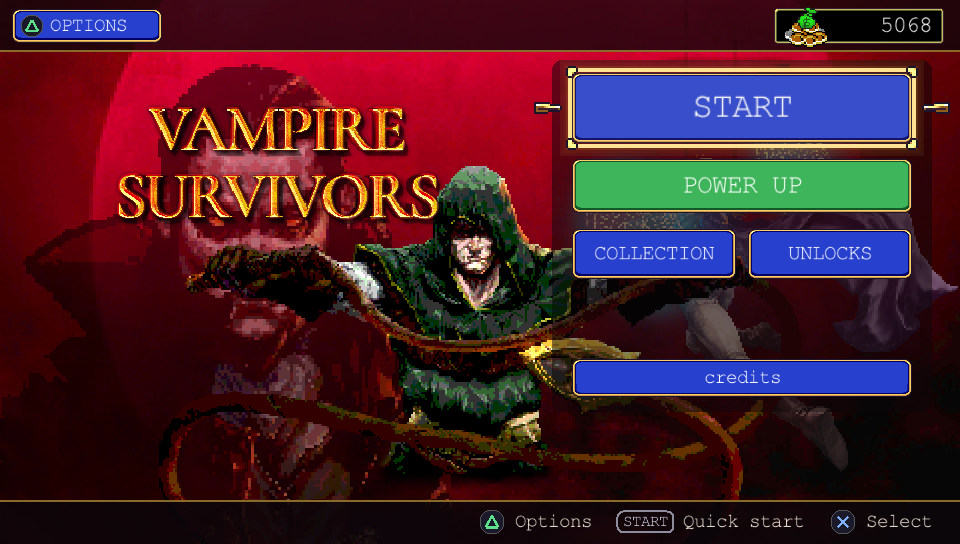
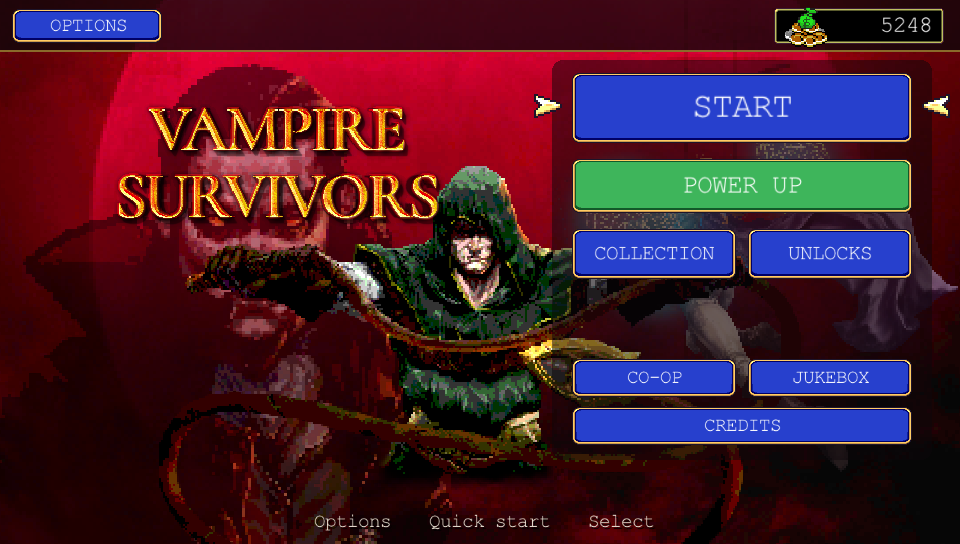
Readme for v1.1: co-op, 3D view, Jukebox, new screenshots, credits

diff --git a/README.md b/README.md
@@ -1,61 +1,68 @@
 # Vampire Survivors - PS Vita Port
 
-A native PS Vita port of **Vampire Survivors** (poncle, 2022). Not an
-emulator and not a wrapper: the Phaser build of the game, the one Steam still
-ships as the `old-engine` beta branch, rewritten in C on top of raylib, SDL2
-and vitaGL, logic class by class, so it plays like the original.
+A native PS Vita port of **Vampire Survivors** (poncle, 2022). Not an emulator
+and not a wrapper: the Phaser build of the game, the one Steam still ships as
+the `old-engine` beta branch, rewritten in C on top of raylib, SDL2 and vitaGL,
+logic class by class, so it plays like the original.
 
-The whole base game is in: all 15 stages, 41 characters,
-the 76 base weapons with evolutions and Limit Break, the 22 Arcanas, relics,
-golden eggs, the shop, the collection, the bestiary, achievements, Inverse
-and Hyper modes, the endings and credits, and saves in 30 languages. So are
-both Phaser-era DLCs, Legacy of the Moonspell and Tides of the Foscari, if you
-own them, plus trophies and save import from the PC version.
+Everything is in: all 15 stages, 41 characters, the 76 base weapons with
+evolutions and Limit Break, the 22 Arcanas, relics, golden eggs, the shop, the
+collection, the bestiary, achievements, Inverse and Hyper modes, the endings
+and credits, saves in 30 languages, and both Phaser-era DLCs, Legacy of the
+Moonspell and Tides of the Foscari, if you own them. On top of that the port
+adds things of its own: **local co-op between two Vitas**, trophies, PC save
+import, custom characters, a Jukebox, and an experimental 3D view.
 
 ![Gameplay](screenshots/gameplay.gif)
 
+## What's New in v1.1
+
+- **Local co-op**: two players, two Vitas, same Wi-Fi.
+- **Smoother heavy waves, thanks to Marcin ([DrakonPL](https://github.com/DrakonPL))**: around 56 fps where
+  v1.0 dropped to 39. His pull request found where the frame time was going
+  and brought the ideas behind it: no more waiting on the GPU every frame,
+  music and sound effects off the main thread, incremental sorting and
+  off-screen culling for the draw list, enemy templates for spawning, and a
+  grid for projectile hits. They are rewritten for this port, but the speed-up
+  is his.
+- **Startup intro**, animation from the Ode to Castlevania announcement trailer
+  set to original music.
+- **Custom characters**, a **Jukebox**, and the **Funny Glasses** (an
+  experimental 3D view, more of an easter egg than a feature).
+- **Wolff ([WolffsRoom](https://github.com/WolffsRoom))'s interface ideas**: photosensitivity warning, pixel button glyphs,
+  animated main menu, zoom and touch movement in the Options.
+
+Full history in the [Changelog](#changelog).
+
+## Screenshots
+
 | | |
 |---|---|
-| ![Main menu](screenshots/01-main-menu.png) | ![Stage selection](screenshots/02-stage-select.png) |
-| ![Gameplay](screenshots/03-gameplay.png) | ![Level up](screenshots/04-level-up.png) |
-| ![Legacy of the Moonspell](screenshots/05-moonspell.png) | ![Tides of the Foscari, the lake](screenshots/06-foscari-lake.png) |
-| ![Tides of the Foscari, the abyss](screenshots/07-abyss.png) | ![Data Recovery](screenshots/08-data-recovery.png) |
+| ![Main menu, with Co-op and Jukebox](screenshots/01-main-menu.png) | ![Co-op: Antonio and Imelda in the Inlaid Library](screenshots/09-coop.png) |
+| ![Experimental 3D view, Inlaid Library](screenshots/10-3d-library.png) | ![Experimental 3D view, Mad Forest](screenshots/11-3d-forest.png) |
+| ![Stage selection](screenshots/02-stage-select.png) | ![Level up](screenshots/04-level-up.png) |
+| ![Gameplay](screenshots/03-gameplay.png) | ![Legacy of the Moonspell](screenshots/05-moonspell.png) |
+| ![Tides of the Foscari, the lake](screenshots/06-foscari-lake.png) | ![Tides of the Foscari, the abyss](screenshots/07-abyss.png) |
 
 *Captured from the desktop preview build, which runs the same game code at the
 Vita's 960x544. Frame rate on the real console is covered under Known Issues.*
 
-## Changelog
-
-**v1.1** - local co-op for two Vitas on the same Wi-Fi, an intro at startup,
-much smoother heavy waves (around 56 fps where v1.0 dropped to 39), custom
-characters, a Jukebox, and Wolff's interface ideas: photosensitivity warning,
-pixel button glyphs, animated main menu, zoom and touch movement in the
-Options. Hidden somewhere is an experimental 3D view, see below.
-
-**v1.0** - both DLCs (Legacy of the Moonspell, Tides of the Foscari), trophies
-(two sets, needs NoTrpDrm), PC save import over Wi-Fi, a rebuilt Data Recovery
-screen with save deletion. Fixes: weapons picked up late, evolutions above all,
-did no damage once the inventory filled up; crash leaving the credits. New
-LiveArea art by Wolff. Run the setup tool again after updating.
-
-**v0.9 beta** - first public release: the whole base game, chest videos in
-the final stage played by the Vita's hardware decoder, 60 fps in normal play.
-
 ## Official Game Download
 
 Vampire Survivors is on Steam. **This port does not include the game**: its
-graphics, sounds, music and data are not in the VPK. You need your own copy, and
-you extract the data from it yourself with the setup tool below. DLCs work only
-if you own them: the tool picks up what your copy has. The only exceptions are
-the LiveArea images, made from the game's official artwork, the trophy pack,
-which carries the achievement texts and icons, the startup intro, animation
-from the Ode to Castlevania announcement trailer (poncle / Konami) set to
-original music, and the screenshots in this README.
+graphics, sounds, music and data are not in the VPK. You need your own copy,
+and you extract the data from it yourself with the setup tool below. DLCs work
+only if you own them: the tool picks up what your copy has. The only
+exceptions are the LiveArea images, made from the game's official artwork, the
+trophy pack, which carries the achievement texts and icons, the startup intro,
+animation from the Ode to Castlevania announcement trailer (poncle / Konami)
+set to original music, and the screenshots in this README.
 
 ## Setup Instructions For End Users
 
 1. **Get the Phaser build.** In Steam, right-click Vampire Survivors,
-   Properties, Betas, and pick `old-engine`. Let it download.
+   Properties, Betas. Enter the access code `PhaserVersion2023`, pick
+   `old-engine` and let it download.
 
 2. **Run the setup tool** for your computer (Windows, macOS or Linux / Steam
    Deck; you can find it with each release). It finds your copy of the game on
@@ -64,10 +71,11 @@ original music, and the screenshots in this README.
    - over Wi-Fi: open VitaShell, press SELECT, and type the address it shows;
    - or to a folder / the Vita's memory card in VitaShell's USB mode.
 
-   About 125 MB go to `ux0:data/VampireSurvivors/`, about 165 MB with both DLCs. If the connection drops,
-   press Prepare again: it only sends what is missing. Nothing needs to be
-   installed on the computer: the tool runs the game's own data scripts and
-   re-encodes the three chest videos for the Vita by itself.
+   About 125 MB go to `ux0:data/VampireSurvivors/`, about 165 MB with both
+   DLCs. If the connection drops, press Prepare again: it only sends what is
+   missing. Nothing needs to be installed on the computer: the tool runs the
+   game's own data scripts and re-encodes the three chest videos for the Vita
+   by itself.
 
    From a terminal, the same tool also works without a window:
 
@@ -82,61 +90,21 @@ original music, and the screenshots in this README.
 
 4. **Install the VPK** with VitaShell.
 
-## Bringing Your PC Save
-
-You can carry your progress over from the PC, with both the current Steam version
-and old-engine. Content this port does not have is skipped.
-
-1. **Find your save on the computer:**
-   - Current Steam version: `Steam/userdata/<id>/1794680/remote/SaveData`
-   - Old-engine, `SaveData.sav`:
-     - Windows: `%APPDATA%\Vampire_Survivors_<id>`
-     - macOS: `~/Library/Application Support/Vampire_Survivors_<id>`
-     - Linux: `~/.config/Vampire_Survivors_<id>`
-2. **On the Vita**, connected to the same Wi-Fi as the computer: Options, Data
-   Recovery, **Import save from PC**. The game shows an address; keep that screen
-   open.
-3. **On the computer**, open the address in a browser, choose the file and press
-   Send.
-4. **Back on the Vita**, check the summary and press **Import this save**. The game
-   restarts with your progress.
-
-Your previous Vita save stays in `ux0:data/VampireSurvivors/SaveData.preimport`.
-
-## Trophies
-
-There are 190 trophies plus the platinum, in two sets (the DLC ones are in the
-second, and need the DLCs). They need the [NoTrpDrm](https://github.com/Rinnegatamante/NoTrpDrm)
-plugin; without it the game runs normally, just without trophies.
-
-1. Copy `NoTrpDrm.suprx` to `ur0:tai/` with VitaShell.
-2. Back up `ur0:tai/config.txt`, then add this line under `*main`:
-
-       ur0:tai/NoTrpDrm.suprx
-
-3. Reboot the Vita and start the game.
-
-Achievements you already have earn their trophies when the game starts, imported
-ones included: import your PC save first and they arrive on the restart.
+**Updating from v1.0:** just install the new VPK. Your save carries over and
+the game data does not need to be sent again.
 
 ## Co-op
 
-Two players, two Vitas, each with the game and its data installed (same
-version on both). Put both on the same Wi-Fi network, then from the main menu
-pick **Co-op**: one Vita hosts, the other joins. The joining player picks a
-character among the ones they have bought; the host picks the stage. Each
-player levels up on their own; if one falls, they come back at the other's
-next level-up, with half their health.
+Two players, two Vitas, each with the game and its data installed, both on
+v1.1.
 
-## Custom Characters
+1. Connect both Vitas to the same Wi-Fi network.
+2. On both, pick **Co-op** in the main menu: one Vita hosts, the other joins.
+3. The joining player picks a character among the ones they have bought; the
+   host picks the stage.
 
-The port loads characters in the format of the Unity version's custom
-character beta (as made by Customello): put each one in its own folder under
-`ux0:data/VampireSurvivors/CustomCharacters/`, with its `character.json`,
-`localization.json`, `sprites/` and `skins/`. They show up in the character
-selection. Abilities the Phaser build never had (followers, ability cards,
-special controllers) are ignored. In co-op, a custom character the other Vita
-does not have falls back to Antonio there.
+Each player has their own weapons, level-ups and chests. If one falls, they
+come back at the other's next level-up, with half their health.
 
 ## The Funny Glasses (experimental 3D view)
 
@@ -150,14 +118,67 @@ seriously.** The game was never designed for 3D: some props float or overlap,
 walls can look odd, ground effects stay flat, and it costs frame rate. Expect
 rough edges.
 
-Each stage also hides a vinyl record; the first one unlocks the **Jukebox** in
-the main menu.
+## Jukebox
+
+Every stage hides a vinyl record. The first one you find unlocks the
+**Jukebox** in the main menu, where you can listen to the stage themes you
+have unlocked.
+
+## Custom Characters
+
+The port loads characters in the format of the Unity version's custom
+character beta (as made by Customello). Put each one in its own folder under
+`ux0:data/VampireSurvivors/CustomCharacters/`, with its `character.json`,
+`localization.json`, `sprites/` and `skins/`, and it shows up in the character
+selection. Abilities the Phaser build never had (followers, ability cards,
+special controllers) are ignored. In co-op, a custom character the other Vita
+does not have falls back to Antonio there.
+
+## Bringing Your PC Save
+
+You can carry your progress over from the PC, with both the current Steam
+version and old-engine. Content this port does not have is skipped.
+
+1. **Find your save on the computer:**
+   - Current Steam version: `Steam/userdata/<id>/1794680/remote/SaveData`
+   - Old-engine, `SaveData.sav`:
+     - Windows: `%APPDATA%\Vampire_Survivors_<id>`
+     - macOS: `~/Library/Application Support/Vampire_Survivors_<id>`
+     - Linux: `~/.config/Vampire_Survivors_<id>`
+2. **On the Vita**, connected to the same Wi-Fi as the computer: Options, Data
+   Recovery, **Import save from PC**. The game shows an address; keep that
+   screen open.
+3. **On the computer**, open the address in a browser, choose the file and
+   press Send.
+4. **Back on the Vita**, check the summary and press **Import this save**. The
+   game restarts with your progress.
+
+Your previous Vita save stays in `ux0:data/VampireSurvivors/SaveData.preimport`.
+
+## Trophies
+
+There are 190 trophies plus the platinum, in two sets (the DLC ones are in the
+second, and need the DLCs). They need the
+[NoTrpDrm](https://github.com/Rinnegatamante/NoTrpDrm) plugin; without it the
+game runs normally, just without trophies.
+
+1. Copy `NoTrpDrm.suprx` to `ur0:tai/` with VitaShell.
+2. Back up `ur0:tai/config.txt`, then add this line under `*main`:
+
+       ur0:tai/NoTrpDrm.suprx
+
+3. Reboot the Vita and start the game.
+
+Achievements you already have earn their trophies when the game starts,
+imported ones included: import your PC save first and they arrive on the
+restart.
 
 ## Controls
 
 | Vita | Game |
 |---|---|
 | Left stick / D-pad | Move, menu navigation |
+| Touch screen | Move (optional, in the Options) |
 | Cross | Confirm |
 | Circle | Back |
 | Start | Pause |
@@ -165,18 +186,35 @@ the main menu.
 
 ## Known Issues
 
-- Very heavy waves (around 300 enemies on screen at once) can still drop well
-  below 60 fps, down to roughly 25-30 with the busiest weapons: the enemy physics
-  and the draw calls are at the limit of the Vita's CPU. Normal play runs at or
-  close to 60 fps, on the DLC stages too.
+- Very heavy waves (around 300 enemies on screen with the busiest weapons) can
+  still dip below 60 fps. Normal play runs at or close to 60 fps, on the DLC
+  stages too.
 - The 3D view is experimental (see The Funny Glasses): visual glitches and a
   lower frame rate are expected there.
 
 ## Not Included
 
 - Online features and anything tied to Steam.
-- Later content the Phaser build never had (Emergency Meeting, Ode to Castlevania
-  and so on).
+- Later content the Phaser build never had (Emergency Meeting, Ode to
+  Castlevania and so on).
+
+## Changelog
+
+**v1.1** - local co-op for two Vitas on the same Wi-Fi, a startup intro, much
+smoother heavy waves (around 56 fps where v1.0 dropped to 39) from Marcin ([DrakonPL](https://github.com/DrakonPL))'s performance ideas, custom
+characters, a Jukebox with a vinyl hidden in every stage, the experimental 3D
+view, and Wolff ([WolffsRoom](https://github.com/WolffsRoom))'s interface ideas: photosensitivity warning, pixel button
+glyphs, animated main menu, centered prompts, zoom and touch movement in the
+Options. Fixes in the pause screen panels.
+
+**v1.0** - both DLCs (Legacy of the Moonspell, Tides of the Foscari), trophies
+(two sets, needs NoTrpDrm), PC save import over Wi-Fi, a rebuilt Data Recovery
+screen with save deletion. Fixes: weapons picked up late, evolutions above all,
+did no damage once the inventory filled up; crash leaving the credits. New
+LiveArea art by Wolff ([WolffsRoom](https://github.com/WolffsRoom)).
+
+**v0.9 beta** - first public release: the whole base game, chest videos in the
+final stage played by the Vita's hardware decoder, 60 fps in normal play.
 
 ## Building
 
@@ -195,11 +233,15 @@ The desktop build reads its data from `$VS_DATA` (default `gamedata/`).
 ## Credits
 
 - **poncle** for making Vampire Survivors. Please buy it, you need it anyway
-- **Wolff** ([WolffsRoom](https://github.com/WolffsRoom)) for the LiveArea art, the animated
-  main menu, the button glyphs, a whole list of interface ideas, the crash dump behind the
-  credits fix, and the work on trophies this port learned from
-- **Marcin (DrakonPL)** for the performance work that showed where the frame time was going:
-  the GPU wait, audio off the main thread, the draw and physics ideas behind v1.1
+- **Wolff** ([WolffsRoom](https://github.com/WolffsRoom)) for the LiveArea art,
+  the animated main menu, the button glyphs, a whole list of interface ideas,
+  the crash dump behind the credits fix, and the work on trophies this port
+  learned from
+- **Marcin** ([DrakonPL](https://github.com/DrakonPL)) for the performance work behind v1.1's frame rate: his
+  pull request measured where the frame time was going and brought the ideas
+  this release is built on (the GPU wait, audio off the main thread,
+  incremental sorting, off-screen culling, enemy templates, the projectile
+  grid)
 - **Richard Davey / Photon Storm** for [Phaser](https://github.com/phaserjs/phaser):
   `src/phaser.c` is a C translation of the parts of Phaser 3.55.2 the game uses
 - **Rex** for [phaser3-rex-plugins](https://github.com/rexrainbow/phaser3-rex-plugins)
@@ -223,11 +265,11 @@ Licenses and notices are in `THIRD_PARTY_NOTICES.md`.
 ## Disclaimer
 
 This is an unofficial, non-commercial fan project, not affiliated with or
-endorsed by poncle.
+endorsed by poncle or Konami.
 
 ## License
 
 The source code of this port is released under the MIT License (see
 `LICENSE`). Vampire Survivors and everything in it belong to poncle; the
-game's data is not part of this repository, and the LiveArea images, trophy pack
-contents and screenshots stay theirs too.
+game's data is not part of this repository, and the LiveArea images, trophy
+pack contents, intro animation and screenshots stay theirs too.

diff --git a/THIRD_PARTY_NOTICES.md b/THIRD_PARTY_NOTICES.md
@@ -42,7 +42,8 @@ Both are MIT licensed:
 ## In the setup tools
 
 - FFmpeg: the bundled binary is a GPL v3 build including x264, run as a separate
-  program. Source: https://ffmpeg.org/download.html
+  program, version 7.0.2.
+  Source: https://ffmpeg.org/releases/ffmpeg-7.0.2.tar.xz
 - imageio-ffmpeg: BSD 2-Clause, imageio contributors.
 - QuickJS: MIT, Fabrice Bellard and Charlie Gordon. Python bindings by PetterS.
 - PyInstaller: GPL with an exception that allows bundling applications.
